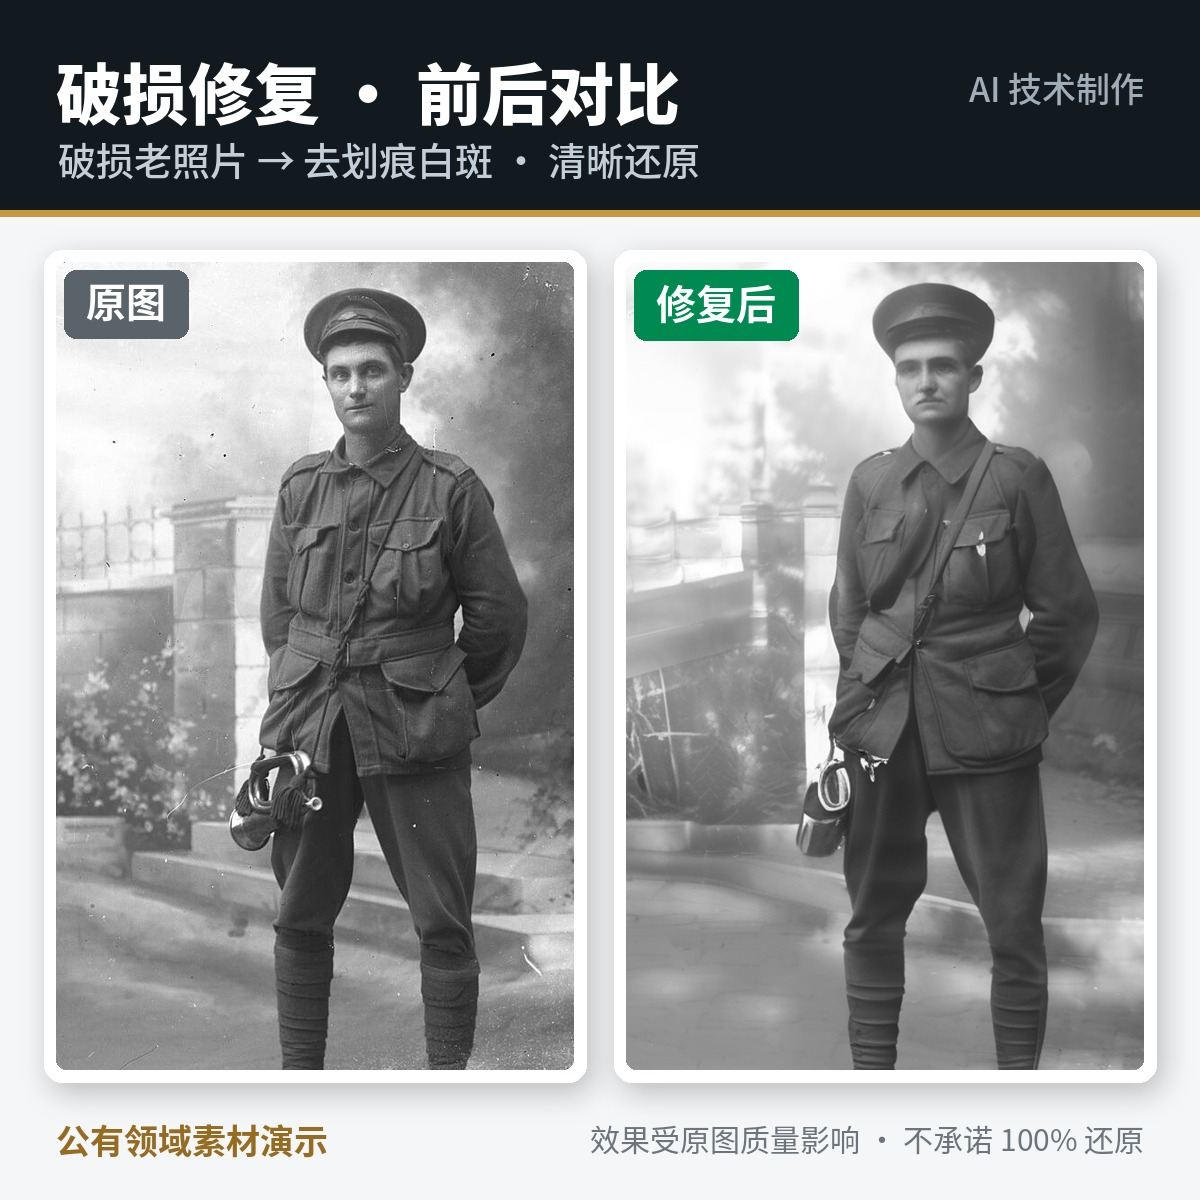
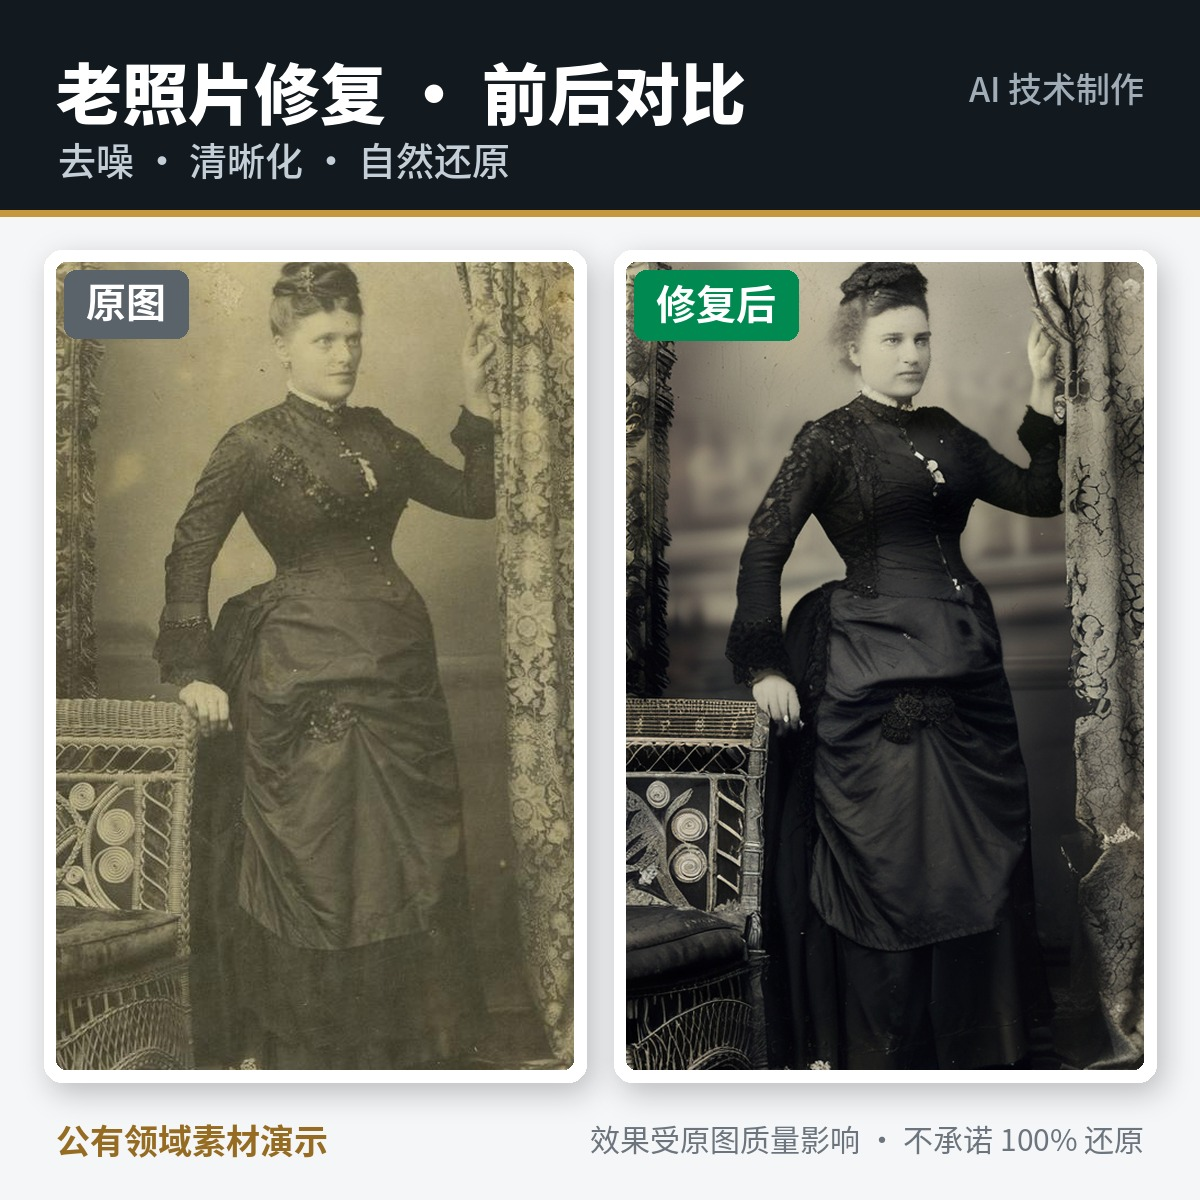
fix(photo): #224 最终包 sha 对齐——service-01/ba-04 入库 + ba-04 换 hist06_lady 并弱化「去划痕」文案
- service-01(hist06_lady 修复面板 + 裁切) 入库 → sha d4371312（对齐包）
- ba-04 源 hist06_lady，副标题「去噪 / 去划痕 / 恢复清晰」→「去噪 · 清晰化 · 自然还原」(hist06 未跑 damage-fix)
- manifest/README 同步 ba-04→hist06_lady；仓=产物=包三方同 sha

diff --git a/inference/photo/marketing.py b/inference/photo/marketing.py
@@ -229,22 +229,22 @@ def page(title: str, subtitle: str) -> tuple[Image.Image, ImageDraw.ImageDraw]:
 def gen_service(src: Path, out: Path) -> None:
     canvas, d = page("四项服务 · 一站搞定", "修复 / 上色 / 高清增强 / 电商主图")
     items = [
-        ("老照片修复", "去噪 · 去划痕 · 恢复清晰", "hist01_migrant_mother_repair", (90, 98, 106)),
-        ("黑白照上色", "黑白 → 自然彩色", "hist02_lincoln_colorize", GREEN),
-        ("高清增强", "小图放大 · 更清晰", "hist01_migrant_mother_upscale", (34, 96, 160)),
-        ("电商主图", "去背 · 纯白底 · 自然阴影", "prod01_potpourri_jar", (150, 92, 30)),
+        ("老照片修复", "去噪 · 去划痕 · 恢复清晰", "hist06_lady", (90, 98, 106), 0.12),
+        ("黑白照上色", "黑白 → 自然彩色", "hist02_lincoln_colorize", GREEN, 0.40),
+        ("高清增强", "小图放大 · 更清晰", "hist01_migrant_mother_upscale", (34, 96, 160), 0.20),
+        ("电商主图", "去背 · 纯白底 · 自然阴影", "prod01_potpourri_jar", (150, 92, 30), 0.55),
     ]
     m, gap, top = 48, 30, 258
     tw = (W - m * 2 - gap) // 2
     th = (W - top - m - gap) // 2
-    for i, (name, desc, case, color) in enumerate(items):
+    for i, (name, desc, case, color, fy) in enumerate(items):
         cx = m + (i % 2) * (tw + gap)
         cy = top + (i // 2) * (th + gap)
         box = (cx, cy, cx + tw, cy + th)
         drop_shadow(canvas, box, 18)
         d.rounded_rectangle(box, 18, fill=WHITE)
         im = load_rgb(src / case / "after.png")
-        thumb = rounded(cover(im, tw - 24, th - 132), 10)
+        thumb = rounded(cover_bias(im, tw - 24, th - 132, fy=fy), 10)
         canvas.alpha_composite(thumb, (cx + 12, cy + 12))
         d.rounded_rectangle((cx + 12, cy + th - 120, cx + 12 + 160, cy + th - 120 + 14), 7, fill=color)
         d.text((cx + 30, cy + th - 92), name, font=font(FONT_BOLD, 46), fill=INK)
@@ -380,8 +380,8 @@ BA_GROUPS = [
      "hist01_migrant_mother_repair", 0.30, 0.62),
     ("ai-photo-ba-03-1200x1200.jpg", "老照片上色 · 前后对比", "百年人像 → 自然肤色",
      "hist02_lincoln_colorize", 0.34, 0.60),
-    ("ai-photo-ba-04-1200x1200.jpg", "破损修复 · 前后对比", "破损老照片 → 去划痕白斑 · 清晰还原",
-     "hist03_burnley_repair", 0.42, 0.9),
+    ("ai-photo-ba-04-1200x1200.jpg", "老照片修复 · 前后对比", "去噪 · 清晰化 · 自然还原",
+     "hist06_lady", 0.34, 0.72),
     ("ai-photo-ba-05-1200x1200.jpg", "高清增强 · 前后对比", "低清小图 → 高清细节",
      "hist01_migrant_mother_upscale", 0.30, 0.72),
 ]

diff --git a/marketing/ai-photo-上架物料-v1/README.md b/marketing/ai-photo-上架物料-v1/README.md
@@ -12,7 +12,7 @@
 | `ai-photo-ba-01-1200x1200.jpg` | A2 前后对比 01 | 老照片**上色**（黑白 → 自然彩色） |
 | `ai-photo-ba-02-1200x1200.jpg` | A2 前后对比 02 | 老照片**修复**（去噪/去划痕/恢复清晰） |
 | `ai-photo-ba-03-1200x1200.jpg` | A2 前后对比 03 | 老照片**上色**（百年人像 → 自然肤色） |
-| `ai-photo-ba-04-1200x1200.jpg` | A2 前后对比 04 | **破损修复**（降质减损 → 清晰还原） |
+| `ai-photo-ba-04-1200x1200.jpg` | A2 前后对比 04 | **老照片修复**（去噪/清晰化 → 自然还原） |
 | `ai-photo-ba-05-1200x1200.jpg` | A2 前后对比 05 | **高清增强**（低清小图 → 高清细节） |
 | `ai-photo-service-01-1200x1200.png` | A3 服务四选图 | 修复 / 上色 / 高清增强 / 电商主图 |
 | `ai-photo-flow-01-1200x1200.png` | A4 流程与时效图 | 下单→发照片→AI 制作→回传；标准 24h / 加急 2h |
@@ -31,7 +31,7 @@
 | main / ba-01 | `hist01_migrant_mother_colorize` | colorize (DDColor) | Dorothea Lange《Migrant Mother》1936 · **PD** |
 | ba-02 | `hist01_migrant_mother_repair` | repair | 同上 · **PD** |
 | ba-03 | `hist02_lincoln_colorize` | colorize (DDColor) | Lincoln 1863 肖像 · **PD** |
-| ba-04 | `hist03_burnley_repair` | repair (damage-fix) | Private John Burnley WW1 肖像 · **PD** |
+| ba-04 | `hist06_lady` | repair | 维多利亚女士老照片肖像 · **PD** |
 | ba-05 | `hist01_migrant_mother_upscale` | upscale | Dorothea Lange 1936（**干净降采样低清输入 → 超分**）· **PD** |
 
 - 所有 A1/A2 图内已标 **「公有领域素材演示」** + **「AI 技术制作」**。
@@ -60,6 +60,6 @@ python3 inference/photo/marketing.py \
 
 - 不承诺 100% 还原（图内注明）。
 - **上色引擎（#225）**：main/ba-01/ba-03 与 service 上色面板改用 **DDColor-L** 出色 + `chroma_transfer` 保原图亮度/质感（**不套 skin_fix**），消除旧链路（SDXL strength=0.80）的手臂/衣物蓝块串色；详见 `docs/photo-colorize-offset-225.md`。
-- **ba-04**：改用**真实老照片**（WW1 肖像，PD）演示破损修复（去划痕/白斑 + 修复），替换原油画对拍图。
+- **ba-04**：改用**真实老照片** `hist06_lady`（维多利亚女士肖像，PD）演示**老照片修复**（repair 模式；未跑 damage-fix，故**不宣称「去划痕」**，文案用「去噪 · 清晰化 · 自然还原」）。
 
-— sage（ai_engineer）· v2 · 2026-10-02（#224 重出 4 件：main-01 / ba-01 / service-01 / ba-04）
+— sage（ai_engineer）· v3 · 2026-10-03（#224 最终包 sha 对齐：service-01/ba-04 入库；ba-04 → hist06_lady，文案弱化「去划痕」）
